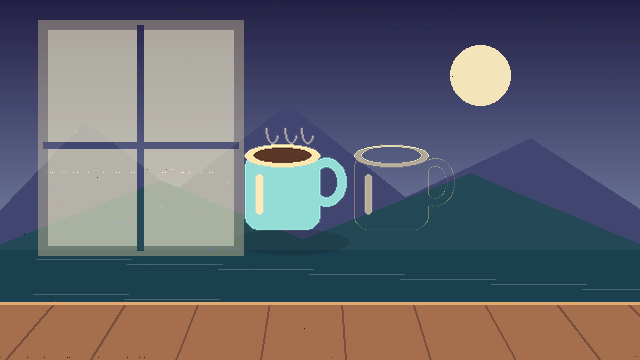
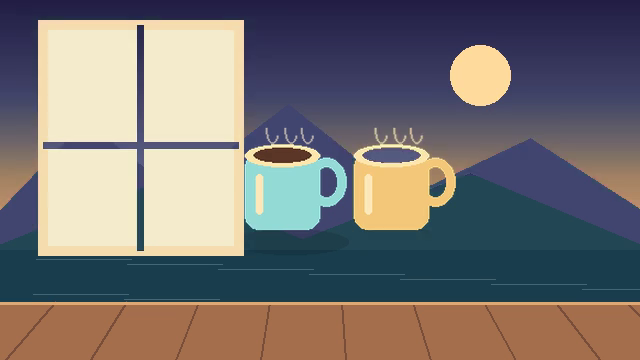
docs: refresh community luma preview with verified stateless output
Regenerate the optional Shadow Ink thumbnail from an actual video export after the luma threading fix. Preserve exact defaults, source hashes, frame number and renderer revision in a preview parameter record, linked from both contribution readmes.

Changed region(s): [[0.0, 0.0306, 0.4062, 0.7333], [0.5312, 0.3361, 1.0, 0.6417], [0.6875, 0.1222, 0.8125, 0.3056]]

diff --git a/effects/transitions/cutvoke.transition.community.luma-ink/README.md b/effects/transitions/cutvoke.transition.community.luma-ink/README.md
@@ -4,6 +4,8 @@
 
 Reveal the next shot through the outgoing picture's darker regions first. This manifest reuses **`cutvoke.transition.lumaReveal`'s original internal implementation** with `reverse:true` and `duration:0.8`. It is a reusable configuration, not a fifth renderer or a downloaded shader. The local preview comes from CutVoke rendering original procedural illustrations; no reference-film frame is included. Code, manifest and procedural illustration use the repository MIT license; FFmpeg is an independent external dependency.
 
+[Preview parameters](preview-params.json) record the source hashes, defaults, exact frame and renderer revision. The PNG was regenerated after the stateless luma-mask fix, from frame 57 of a real exported video.
+
 Set `CUTVOKE_EFFECTS_PATH` to the absolute `effects/transitions` directory before starting editor/MCP, then restart them after manifest edits. The loader is opt-in and does not install a gallery preset. Requires the current source containing `vlog_fx.py`; the minimum-core field is descriptive and cannot guarantee that an earlier `0.3.1` binary knows this mapping.
 
 Choose adjacent image/video clips, attach `cutvoke.transition.community.luma-ink` to the incoming clip with `effect.setTransition`, or choose it in the editor transition panel. Tune `duration` (`0.05–2s`, editor minimum `0.1s`), `softness` (`0.005–0.35`), `reverse`, `keySource` (`outgoing`/`incoming`) and `curve` (`linear`/`smooth`). The preview and apply controls share these values. Identical or uniformly lit shots give little visible spatial structure; use distinct SDR pictures with readable highlights and shadows.

diff --git a/effects/transitions/cutvoke.transition.community.luma-ink/README.zh-CN.md b/effects/transitions/cutvoke.transition.community.luma-ink/README.zh-CN.md
@@ -4,6 +4,8 @@
 
 先从前镜头的暗部揭示下一镜头。本清单复用原创 **`cutvoke.transition.lumaReveal` 内部实现**，默认 `reverse:true`、`duration:0.8`；它是复合配置，不是第五个渲染算法或下载的着色器。本地预览来自 CutVoke 渲染的原创程序插画，不含参考影片帧。代码、清单与原创插画采用仓库 MIT 许可；外部 FFmpeg 保持独立许可。
 
+[预览参数记录](preview-params.json)保留源文件哈希、默认参数、准确帧号与渲染器版本。PNG 已在亮度蒙版多线程修复后重新生成，取自真实导出视频的第 57 帧（从 0 开始）。
+
 启动编辑器/MCP 前，把 `CUTVOKE_EFFECTS_PATH` 指向 `effects/transitions` 的绝对路径，改清单后重启。此目录显式启用，不自动增加预设商城卡片。需要包含 `vlog_fx.py` 的当前源码；最低内核字段是说明元数据，不能保证旧 `0.3.1` 二进制支持此映射。
 
 选择首尾相邻的图片或视频，把 `cutvoke.transition.community.luma-ink` 用 `effect.setTransition` 挂在后一段，或在编辑器转场面板选择。参数包括 `duration`（内核 `0.05–2 秒`，编辑器至少 `0.1 秒`）、`softness`（`0.005–0.35`）、`reverse`、`keySource`（`outgoing`/`incoming`）和 `curve`（`linear`/`smooth`）。预览与应用共用这些参数。同样或均匀照明的两镜头可能缺乏明显空间变化，应选择有明暗结构的不同 SDR 素材。
